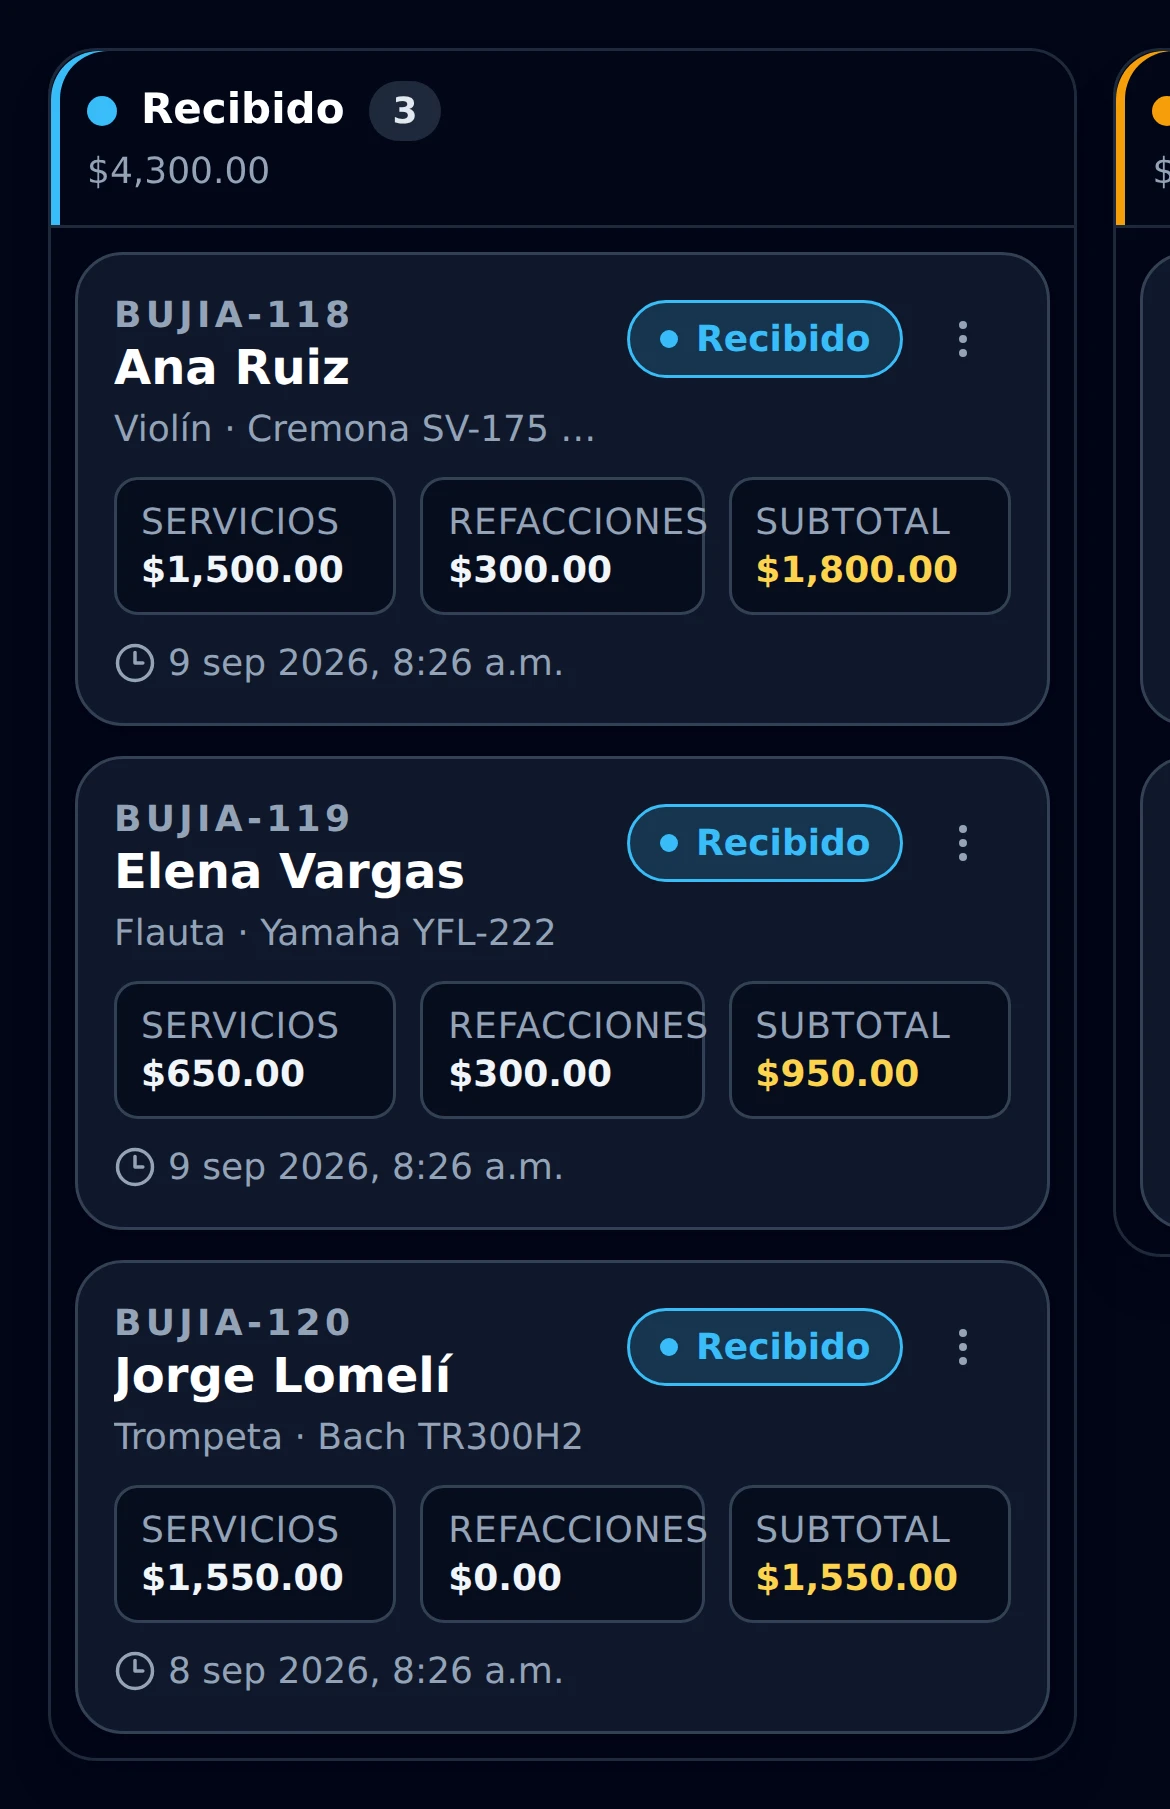
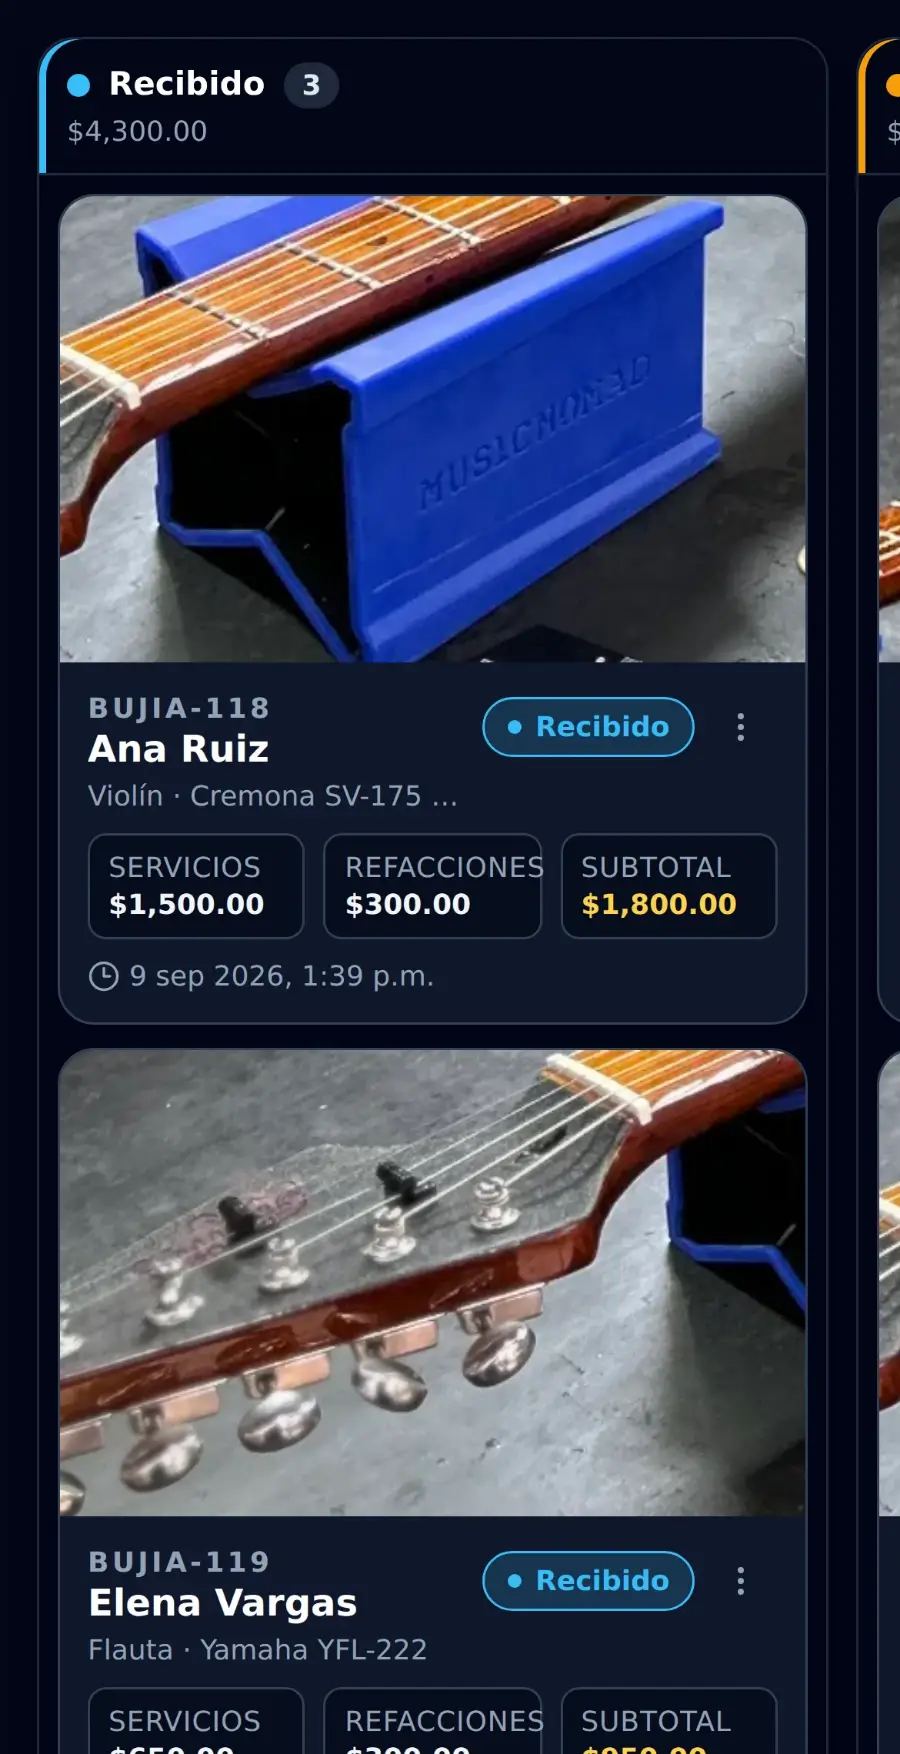
Foto real del taller, refacciones con precio y héroe propio de móvil
- **Posicionamiento**: "Deja el cuaderno: tu taller, en una sola pantalla".
  Lo que se vende no es un CRM, es dejar la libreta.
- **Fotografía del taller** de fondo en el héroe, con velo para que el texto
  aguante contraste, y en el bloque del dinero. Es lo único de lo que
  distingue una página que se ve cara que no se fabrica con CSS.
- **Bloque nuevo, "Cada servicio y cada refacción, con su precio"**: las dos
  pestañas del seguimiento lado a lado. Cierra con que ésa no es una pantalla
  del taller que luego se le explica al cliente: es la misma que él abre.
- **Fotos de los equipos en las tarjetas del tablero**, desde el harness.
- **Héroe propio para móvil** (760px, 47 KB contra 92): en el teléfono se
  pinta a 390px y bajo un velo de 0.93 — descargar 1280px para eso era el
  desperdicio más grande que le quedaba a la página, y el link llega por
  WhatsApp.

Correcciones de defectos que estaban en vivo:

- Faltaba `<html lang="es">`: se perdió al reescribir la página y llevaba
  varios días fuera. `html-has-lang` reprobaba.
- `height:auto` en las imágenes. Sin él los atributos `width`/`height` valen
  como CSS, `max-width` encoge el ancho y la altura se queda clavada: TODAS
  las capturas salían estiradas. Lo reportó el owner, no la revisión.
- Contraste del pie de las dos capturas de teléfono sobre banda clara.
- Se quitaron cuatro imágenes que ya no usa la página.

Las fotos originales salen de este repo: es público, y en dos de ellas se ve
[…]

diff --git a/index.html b/index.html
@@ -1,7 +1,9 @@
+<!doctype html>
+<html lang="es">
 <meta charset="utf-8">
 <meta name="viewport" content="width=device-width,initial-scale=1">
-<title>BujiOps — el trabajo de tu taller, en una sola pantalla</title>
-<meta name="description" content="CRM para talleres de servicio: motos, bicicletas, costura, instrumentos, carpintería, celulares. Lleva el control del trabajo y tu cliente sigue su equipo desde su teléfono.">
+<title>BujiOps — deja el cuaderno: tu taller en una sola pantalla</title>
+<meta name="description" content="Sistema de órdenes para talleres chicos: motos, bicicletas, costura, instrumentos, carpintería, celulares. Servicios, refacciones y precios en un solo lugar, y tu cliente los ve desde su teléfono.">
 
 <!-- La tarjeta que se ve al pegar el link en WhatsApp, que es por donde llega.
      Sin esto el link sale pelón, y ese es el primer contacto con el producto:
@@ -15,8 +17,8 @@
 <meta property="og:type" content="website">
 <meta property="og:locale" content="es_MX">
 <meta property="og:site_name" content="BujiOps">
-<meta property="og:title" content="El trabajo de tu taller, en una sola pantalla">
-<meta property="og:description" content="Qué entró, quién lo está atendiendo, qué lleva días esperando una pieza y cuánto dinero hay parado en cada estado. Para talleres de motos, bicis, costura, instrumentos, carpintería y celulares.">
+<meta property="og:title" content="Deja el cuaderno: tu taller en una sola pantalla">
+<meta property="og:description" content="Qué entró, qué se le está haciendo, qué refacción falta y cuánto va a costar. Y tu cliente lo ve desde su teléfono, sin llamarte. Para talleres de motos, bicis, costura, instrumentos, carpintería y celulares.">
 <meta property="og:url" content="https://richartl.github.io/bujiops.app/">
 <meta property="og:image" content="https://richartl.github.io/bujiops.app/img/og.jpg">
 <meta property="og:image:width" content="1200">
@@ -29,6 +31,13 @@
 
 <!-- ══ Héroe ══════════════════════════════════════════════════════════════ -->
 <header class="hero osc">
+  <div class="foto"><picture>
+    <!-- En el teléfono esta foto se pinta a 390 px y bajo un velo de 0.93: los
+         1600 px del escritorio serían 93 KB para algo que casi no se ve. -->
+    <source media="(max-width:640px)" srcset="img/taller-hero--movil.webp" width="760" height="427">
+    <img src="img/taller-hero.webp" alt="Un taller de instrumentos: el banco de trabajo, el tablero de herramientas y una guitarra en el soporte" width="1280" height="719" fetchpriority="high">
+  </picture></div>
+  <div class="velo"></div>
   <div class="w"><nav>
     <span class="marca"><span class="chispa"></span>BujiOps</span>
     <a class="nav-sec" href="#precios">Precios</a>
@@ -36,10 +45,10 @@
 
   <div class="w reja">
     <div>
-      <span class="rotulo">CRM para talleres de servicio</span>
-      <h1>El trabajo de tu taller, <em>en una sola pantalla</em>.</h1>
-      <p class="entrada">Qué entró, quién lo está atendiendo, qué lleva días esperando
-        una pieza y cuánto dinero hay parado en cada estado.</p>
+      <span class="rotulo">Órdenes y seguimiento para talleres chicos</span>
+      <h1>Deja el cuaderno: tu taller, <em>en una sola pantalla</em>.</h1>
+      <p class="entrada">Qué entró, qué se le está haciendo, qué refacción falta y
+        cuánto va a costar. Y tu cliente lo ve desde su teléfono, sin llamarte.</p>
       <div class="fila">
         <a class="btn" href="https://wa.me/525618622447">Escríbenos por WhatsApp</a>
         <a class="btn2" href="#rubros">Ver cómo funciona</a>
@@ -58,8 +67,8 @@
           <span class="luz" style="background:#34d399"></span>
           <span class="titulo">Taller Santa Cecilia — Tablero</span>
         </div>
-        <picture><source media="(max-width:640px)" srcset="img/real-tablero--bujia--movil.webp" width="390" height="603">
-        <img src="img/real-tablero--bujia.webp" alt="El tablero del taller con cuatro columnas: Recibido, En proceso, Esperando pieza y Listo, cada una con su conteo de equipos y su total en dinero" width="1780" height="627"></picture>
+        <picture><source media="(max-width:640px)" srcset="img/real-tablero--bujia--movil.webp" width="900" height="1754">
+        <img src="img/real-tablero--bujia.webp" alt="El tablero del taller con cuatro columnas: Recibido, En proceso, Esperando pieza y Listo, cada una con su conteo, su total en dinero y la foto de cada instrumento" width="2000" height="921"></picture>
       </div>
     </div>
   </div>
@@ -91,13 +100,34 @@
   </div>
 </section>
 
-<!-- ══ El cliente ═════════════════════════════════════════════════════════ -->
-<section class="banda papel">
+<!-- ══ Servicios, refacciones y precios ═══════════════════════════════════ -->
+<section class="banda papel" id="trabajo">
   <div class="w">
     <div class="enc">
-      <h2>Y tu cliente <em>deja de hablarte para preguntar</em>.</h2>
-      <p>Cuando mueves la tarjeta, él lo ve. Le mandas un link por WhatsApp una vez
-        y ya no vuelve a llamar para saber cómo va.</p>
+      <h2>Cada servicio y cada refacción, <em>con su precio</em>.</h2>
+      <p>Le vas agregando lo que lleva —una calibración, un juego de cuerdas, la
+        pieza que hubo que pedir— con su costo. El total se arma solo.</p>
+    </div>
+    <div class="dos-tel">
+      <figure><div class="tel"><img loading="lazy" decoding="async" src="img/tel-cuenta.webp" alt="La pestaña de servicios en el teléfono del cliente: Calibración $500, el desglose de servicios y refacciones, y su saldo" width="1170" height="2070"></div>
+        <figcaption>Los servicios<span>Qué se le está haciendo, y cuánto cuesta cada cosa</span></figcaption></figure>
+      <figure><div class="tel"><img loading="lazy" decoding="async" src="img/tel-refacciones.webp" alt="La pestaña de refacciones: Potenciómetro, 1 pieza, aprobada, $400, y el costo total del instrumento" width="1170" height="1680"></div>
+        <figcaption>Las refacciones<span>Cuál falta, cuántas piezas y si el cliente ya la aprobó</span></figcaption></figure>
+    </div>
+    <p class="dice" style="margin-top:26px"><strong>Y no es una pantalla tuya que
+      luego le explicas: es la misma que él abre.</strong> El desglose que capturas
+      en el taller es exactamente el que ve en su teléfono, con el total y lo que
+      lleva pagado. Por eso deja de llamar a preguntar cuánto va.</p>
+  </div>
+</section>
+
+<!-- ══ El cliente ═════════════════════════════════════════════════════════ -->
+<section class="banda">
+  <div class="w">
+    <div class="enc">
+      <h2>Y el link lleva <em>tu nombre, no el nuestro</em>.</h2>
+      <p>Se lo mandas por WhatsApp una vez. No instala nada, no se registra y no
+        tiene contraseña que recordar.</p>
     </div>
     <div class="par">
       <div>
@@ -127,7 +157,10 @@
         <p class="dice" style="margin-top:10px">Cuando alguien reclama, no es tu palabra
           contra la suya. Está la fecha del ingreso, el diagnóstico y el pago, en la
           misma línea de tiempo que él ya vio.</p>
-        <div class="marco" style="margin-top:22px"><img loading="lazy" decoding="async" src="img/pieza-tarjeta.webp" alt="Una tarjeta del tablero con el desglose de servicios, refacciones y subtotal" width="418" height="186"></div>
+        <div class="marco" style="margin-top:22px"><img loading="lazy" decoding="async" src="img/taller-mano.webp" alt="Un teléfono con el tablero de BujiOps abierto, sostenido dentro de un taller de instrumentos, con 140 órdenes y $111,020 entregados" width="1200" height="1120"></div>
+        <p class="dice" style="margin-top:14px;font-size:15px;color:var(--claro)">Un taller de
+          verdad, con sus órdenes de verdad. El nombre del cliente va tapado a
+          propósito: es suyo, no nuestro.</p>
       </div>
     </div>
   </div>
@@ -179,8 +212,8 @@
         igual de bien en los seis.</p>
     </div>
     <div class="temas">
-      <figure><div class="marco"><img loading="lazy" decoding="async" src="img/tema--cielo.webp" alt="Dos columnas del tablero con el tema claro: Recibido y En proceso, con sus tarjetas" width="880" height="627"></div><figcaption>Cielo</figcaption></figure>
-      <figure><div class="marco"><img loading="lazy" decoding="async" src="img/tema--bujia.webp" alt="Las mismas dos columnas del tablero con el tema oscuro" width="880" height="627"></div><figcaption>Bujía</figcaption></figure>
+      <figure><div class="marco"><img loading="lazy" decoding="async" src="img/tema--cielo.webp" alt="Dos columnas del tablero con el tema claro: Recibido y En proceso, con sus tarjetas y las fotos de los instrumentos" width="1400" height="1432"></div><figcaption>Cielo</figcaption></figure>
+      <figure><div class="marco"><img loading="lazy" decoding="async" src="img/tema--bujia.webp" alt="Las mismas dos columnas del tablero con el tema oscuro" width="1400" height="1432"></div><figcaption>Bujía</figcaption></figure>
     </div>
   </div>
 </section>
@@ -202,3 +235,5 @@
   <span>BujiOps · CRM para talleres de servicio</span>
   <span><a href="https://wa.me/525618622447">WhatsApp</a> · <a href="mailto:bujiopsapp@gmail.com">Correo</a></span>
 </footer></div></div>
+
+</html>

diff --git a/base.css b/base.css
@@ -147,7 +147,20 @@ footer a{color:var(--claro)}
 
 /* Héroe: banda oscura, y el tablero colgando del borde derecho. Colgar, y no
    caber, es lo que dice "hay más pantalla". */
-.hero{background:radial-gradient(1000px 520px at 82% -10%,#1e293b 0%,#020617 62%);overflow:hidden}
+/* El héroe ahora lleva FOTO DEL TALLER de fondo, que es el recurso que usan
+   todas las páginas del mercado y el único que no se podía fabricar. La foto
+   es del taller de un cliente real.
+
+   El velo no es decoración: sin él, el titular blanco cae sobre un pegboard
+   lleno de herramientas naranjas y no se lee. Va más opaco a la izquierda,
+   que es donde vive el texto, y se abre a la derecha para que el taller se
+   vea. */
+.hero{position:relative;overflow:hidden;background:#020617}
+.hero .foto{position:absolute;inset:0;z-index:0}
+.hero .foto img{width:100%;height:100%;object-fit:cover;object-position:38% 42%}
+.hero .velo{position:absolute;inset:0;z-index:1;
+  background:linear-gradient(100deg,rgba(2,6,23,.96) 0%,rgba(2,6,23,.93) 38%,rgba(2,6,23,.72) 66%,rgba(2,6,23,.55) 100%)}
+.hero .w{position:relative;z-index:2}
 .hero .reja{display:grid;grid-template-columns:minmax(0,1fr) minmax(0,1.25fr);gap:48px;
   align-items:center;padding-block:34px 76px}
 .hero .rotulo{margin-bottom:22px}
@@ -167,6 +180,20 @@ footer a{color:var(--claro)}
 .chips li{list-style:none;border:1px solid var(--linea);border-radius:999px;padding:8px 15px;
   font-size:15.5px;font-weight:600;color:var(--t2);background:#fff}
 .osc .chips li{border-color:#1e293b;color:#e2e8f0;background:#0f172a}
+
+/* Servicios y refacciones: dos teléfonos lado a lado, porque lo que hay que
+   entender es que el desglose que captura el taller es EL MISMO que ve el
+   cliente. Uno solo no lo diría. */
+.dos-tel{margin-top:36px;display:grid;grid-template-columns:repeat(2,minmax(0,1fr));gap:26px;
+  max-width:760px}
+.dos-tel figcaption{margin-top:12px;font-size:15px;font-weight:700}
+.dos-tel figcaption span{display:block;font-weight:500;color:var(--t3);font-size:14px;margin-top:3px}
+.osc .dos-tel figcaption span{color:var(--claro)}
+
+/* La foto del producto usándose de verdad. Es la única del mundo donde se ve
+   el CRM en la mano de alguien, en un taller, con órdenes reales. */
+.enuso{margin-top:36px;display:grid;grid-template-columns:minmax(0,1fr) minmax(0,1fr);gap:44px;align-items:center}
+.enuso .marco{border-color:#1e293b}
 
 /* Precios: los planes del catálogo del producto, no números inventados. */
 .planes{margin-top:36px;display:grid;grid-template-columns:repeat(3,1fr);gap:20px;align-items:start}
@@ -201,6 +228,10 @@ footer a{color:var(--claro)}
   .par,.par-inv{grid-template-columns:1fr;gap:28px}
   .par .tel,.par-inv .tel{margin-inline:auto}
   .rubros{grid-template-columns:1fr;gap:26px}
+  .dos-tel{grid-template-columns:1fr 1fr;gap:14px}
+  .dos-tel figcaption{font-size:13.5px}
+  .dos-tel figcaption span{display:none}
+  .enuso{grid-template-columns:1fr;gap:26px}
   .planes{grid-template-columns:1fr}
   .temas{grid-template-columns:1fr}
 }
